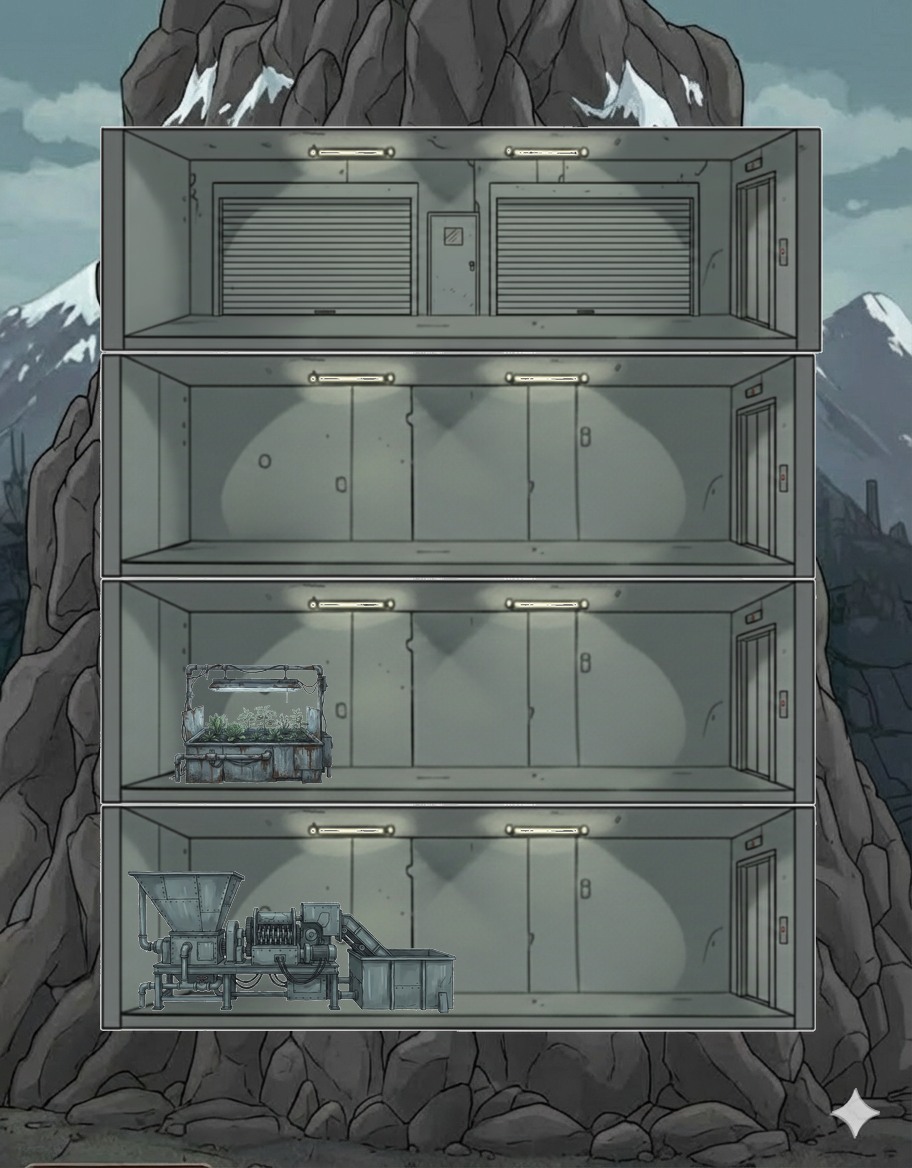
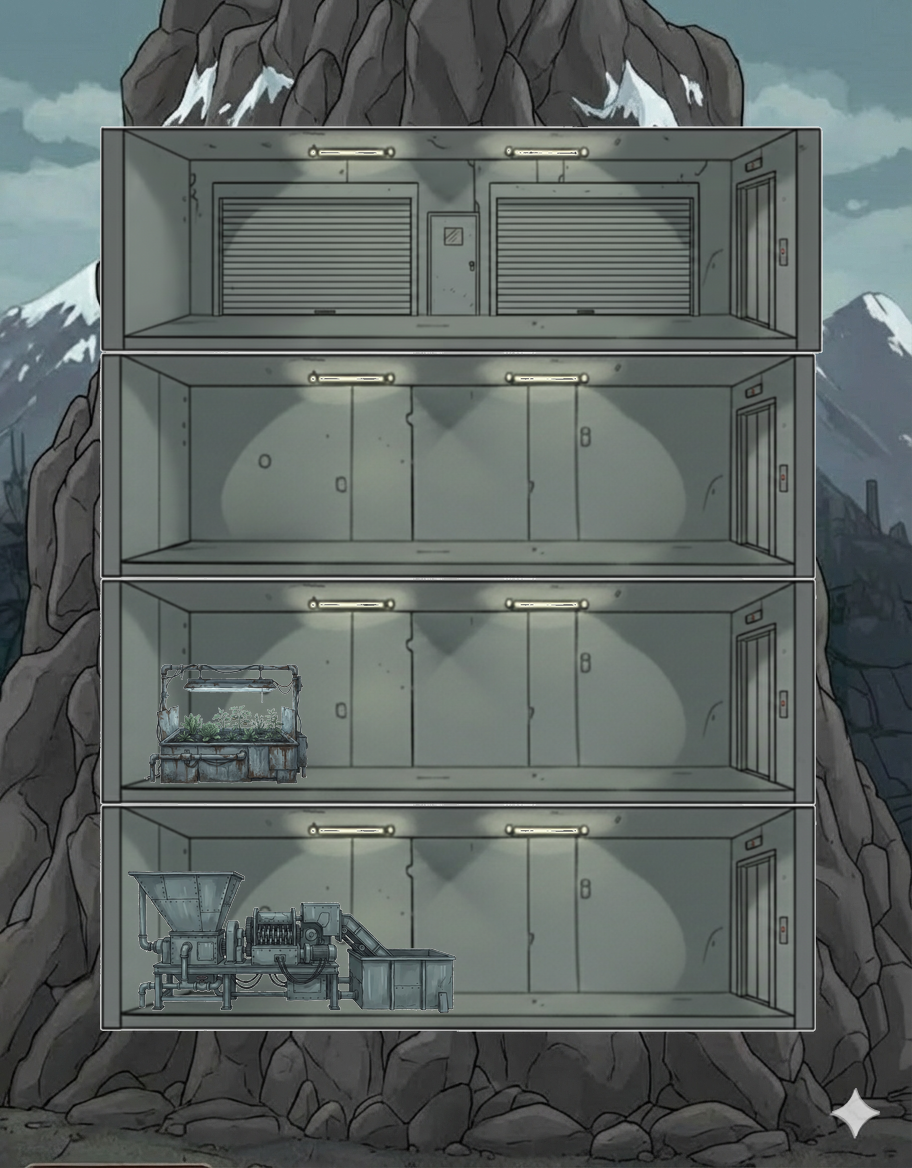
better plant positioning

Changed region(s): [[0.1535, 0.5548, 0.3684, 0.6781]]

diff --git a/New_maps/create_bunker_map.py b/New_maps/create_bunker_map.py
@@ -142,7 +142,7 @@ def create_bunker_map():
     if len(room_positions) > 1:
         room_x, room_y, room_w, room_h = room_positions[1]
         # Position garden on the left side of the room, on the floor
-        garden_x = room_x + int(room_w * 0.15)
+        garden_x = room_x + int(room_w * 0.12)
         # Floor is at about 75% of room height (moved up from 85%)
         garden_y = room_y + int(room_h * 0.79) - new_garden_height
         composite.paste(garden_scaled, (garden_x, garden_y), garden_scaled)
